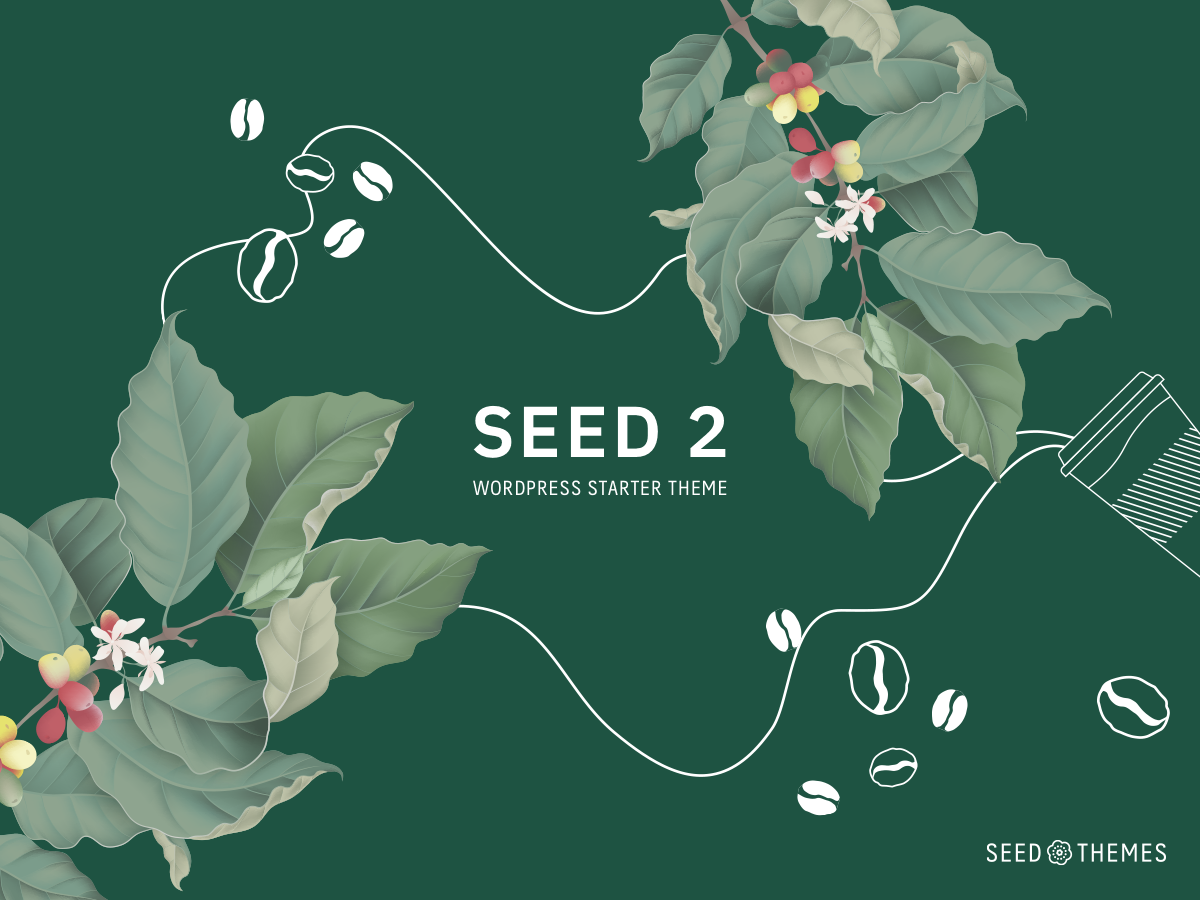
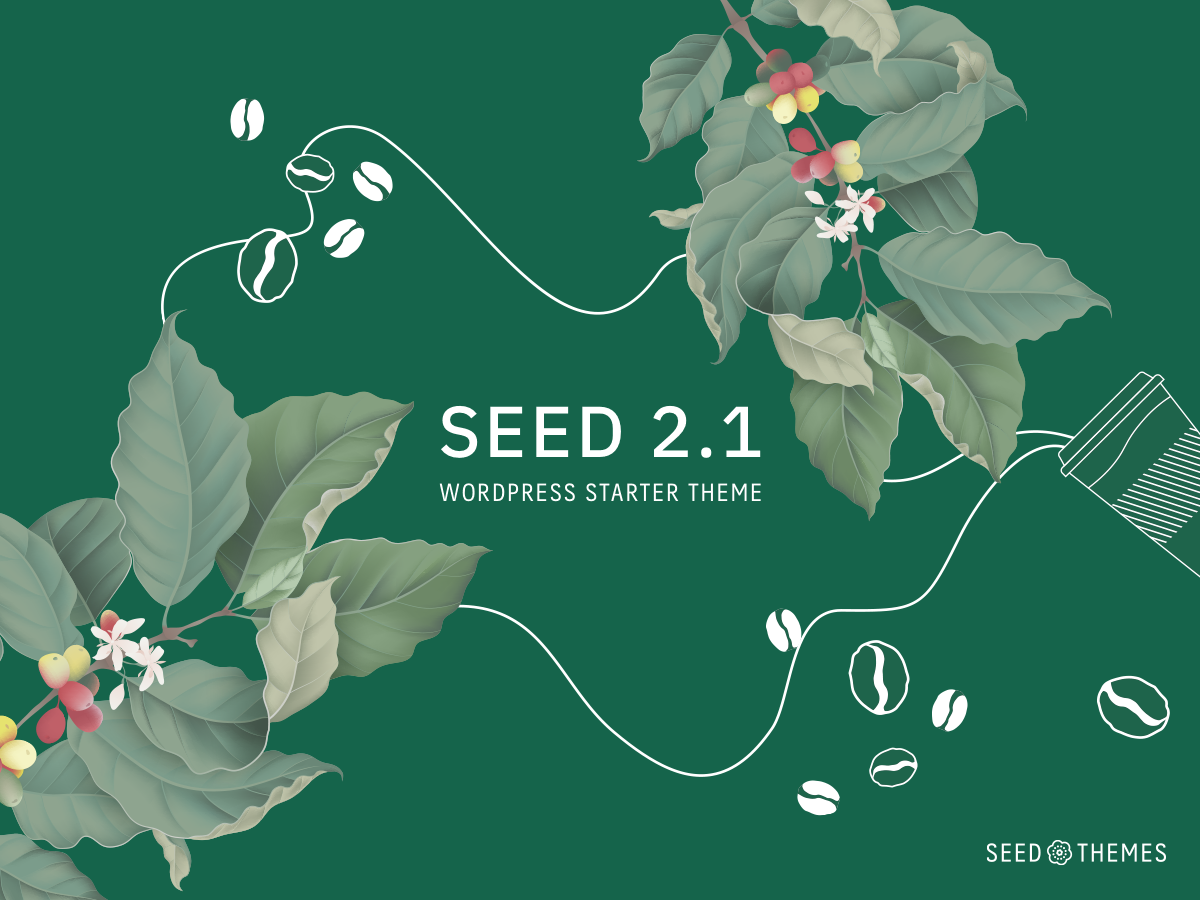
Release 2.1.0

Changed region(s): [[0.37, 0.4356, 0.6475, 0.56]]

diff --git a/style.css b/style.css
@@ -1,10 +1,10 @@
 /*
 Theme Name: Seed
-Theme URI: https://th.seedthemes.com/item/seed/
+Theme URI: https://seedthemes.com/item/seed/
 Author: SeedThemes
 Author URI: https://SeedThemes.com
 Description: Starter Theme
-Version: 2.0.9
+Version: 2.1.0
 License: GNU General Public License v2 or later
 License URI: http://www.gnu.org/licenses/gpl-2.0.html
 Text Domain: seed
@@ -16,7 +16,7 @@ Tags: featured-images, custom-menu
 
 This theme use SCSS, please check
 
-1. css/scss/_variables.scss - for some colors & styles.
+1. css/scss/_variables.scss - CSS Variables for colors & styles.
 2. css/scss/mobile.scss - will be compiled to css/mobile.css and used for mobile version.
 3. css/scss/desktop.scss - will be compiled to css/desktop.css and used for desktop version.
 4. If you set $GLOBALS['s_style_css'] in functions.php to 'enable', you can add CSS to this file to override all CSS.

diff --git a/README.md b/README.md
@@ -4,13 +4,13 @@
 
 WordPress Starter Theme from SeedThemes
 
-Seed is a commercial WordPress theme available in Seed Kit from https://th.seedthemes.com/seed-kit/ This theme is hosted here on a public Github repository in order to better facilitate community contributions from developers and users alike. If you have a suggestion, a bug report, or a patch for an issue, feel free to submit it here.
+Seed is a commercial WordPress theme available in Seed Kit from https://seedthemes.com/seed-kit/ This theme is hosted here on a public Github repository in order to better facilitate community contributions from developers and users alike. If you have a suggestion, a bug report, or a patch for an issue, feel free to submit it here.
 
 This repository does not include img and font folders. Then it will not work as a complete theme. Please purchase a valid license and download from SeedThemes.com. We do not provide support to anyone that does not hold a valid license key.
 
 ## THAI LANGUAGE
 
-ธีม Seed นี้ เป็นธีมที่ขายรวมอยู่ในชุด Seed Kit ทางเว็บไซต์ https://th.seedthemes.com/seed-kit/ เราเผยแพร่ธีมใน Github เพื่อจะได้สะดวกต่อการตรวจสอบโค้ดต่างๆ ทั้งต่อนักพัฒนาและผู้ใช้่งานทั่วไป หากมีคำแนะนำ, พบเจอบั๊ก หรือต้องการส่งโค้ดมาช่วยแก้ สามารถทำผ่านระบบของ Github นี้ได้ทันที
+ธีม Seed นี้ เป็นธีมที่ขายรวมอยู่ในชุด Seed Kit ทางเว็บไซต์ https://seedthemes.com/seed-kit/ เราเผยแพร่ธีมใน Github เพื่อจะได้สะดวกต่อการตรวจสอบโค้ดต่างๆ ทั้งต่อนักพัฒนาและผู้ใช้่งานทั่วไป หากมีคำแนะนำ, พบเจอบั๊ก หรือต้องการส่งโค้ดมาช่วยแก้ สามารถทำผ่านระบบของ Github นี้ได้ทันที
 
 ธีมที่เผยแพร่ใน Github นี้ ไม่รวมโฟลเดอร์ img และ font ทำให้ไม่สามารถใช้งานได้ครบถ้วน หากต้องการใช้งาน ให้ซื้อและดาวน์โหลดที่เว็บ SeedThemes.com เป็นหลักนะครับ และเราช่วยตอบปัญหาต่างๆ เฉพาะกับคนที่ซื้อธีมนะครับ
 
@@ -18,7 +18,18 @@ This repository does not include img and font folders. Then it will not work as 
 
 ### 2.1.0
 
-- Soon
+- Date: 12 July 2020.
+- New: Using Keen-Slider.io - the best native touch/swipe slider.
+- New: Default Heading font: Anuphan.
+- New: CSS Variables.
+- New: SVG Icons via seed_icon() function (support all feathericons.com icons).
+- New: Post meta now using seperate functions and can choose to show icon or not:
+  - seed_posted_on() - show date.
+  - seed_posted_by() - show author.
+  - seed_posted_cats() - show categories.
+  - seed_posted_tags() - show tags.
+- Tweak: Reponsive Video (Youtube / Vimeo) now using fitVids vanilla js.
+- Tweak: CSS adjustments.
 
 ### 2.0.9
 
